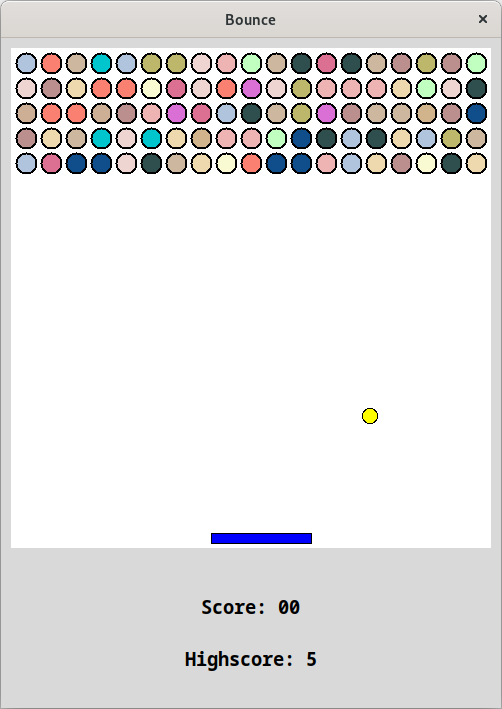
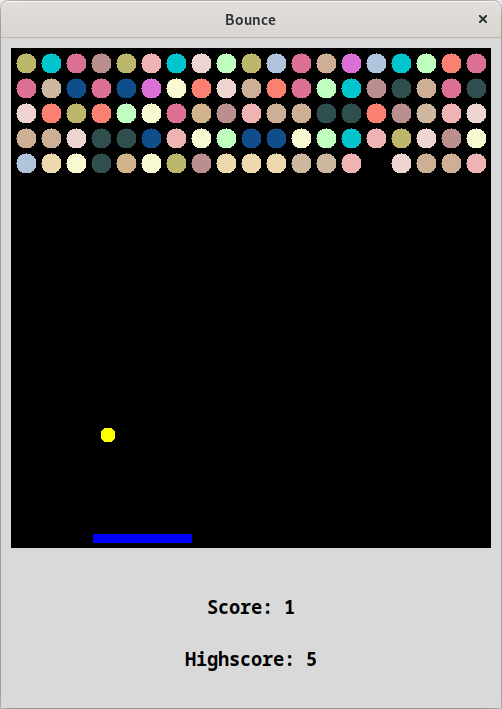
Switched background colour to black

diff --git a/__init__.py b/__init__.py
@@ -9,7 +9,7 @@ root.wm_attributes("-topmost", 1)
 # The cover image of the game.
 coverImage = PhotoImage(file = "images/atari.png")
 # Background colour.
-canvas = Canvas(root, width=500, height=500, bd=0, highlightthickness=0, highlightbackground="Red", bg="white")
+canvas = Canvas(root, width=500, height=500, bd=0, highlightthickness=0, highlightbackground="Red", bg="black")
 canvas.pack(padx=10, pady=10)
 canvas.create_image( -90, 30, image = coverImage, anchor = "nw")
 file1 = open("highscore.txt","r+")

diff --git a/ball.py b/ball.py
@@ -10,7 +10,7 @@ class Ball:
         self.bottom_hit = False
         # Points to start with at beginning of game
         self.hit = 0   
-        self.id = canvas.create_oval(10, 10, 25, 25, fill=color, width=1)
+        self.id = canvas.create_oval(10, 10, 25, 25, fill=color, width=0)
         self.canvas.move(self.id, 230, 461)
         start = [8, 3.8, 3.6, 3.4, 3.2, 3, 2.8, 2.6]
         random.shuffle(start)

diff --git a/game.py b/game.py
@@ -8,7 +8,7 @@ import random
 class Bricks:
     def __init__(self, canvas, color):
         self.canvas = canvas
-        self.id = canvas.create_oval(5, 5, 25, 25, fill=color, width=2)
+        self.id = canvas.create_oval(5, 5, 25, 25, fill=color, width=0)
 
 
 playing = False
